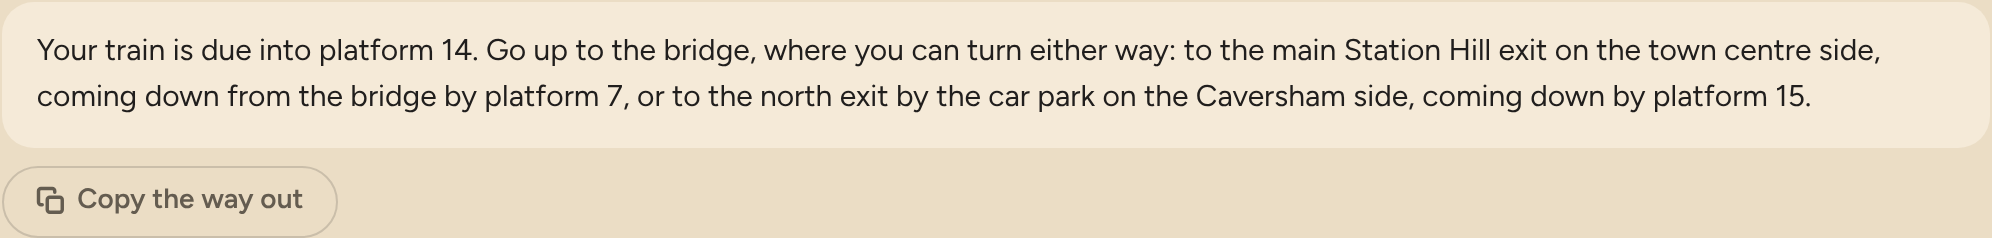
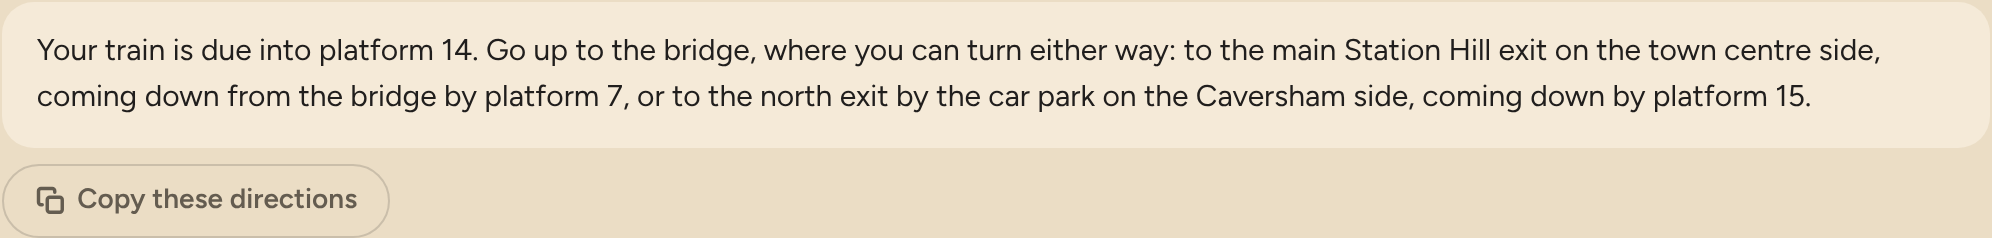
Exits folded under "Check directions from your train"; Share these directions; paragraphs kept apart in the picture
Claude-Session: https://claude.ai/code/session_01BsvHLFfPFr7TbPzqXab8yu

Changed region(s): [[0.0934, 0.7941, 0.1867, 0.8824], [0.0, 0.6765, 0.1867, 0.7059], [0.1556, 0.9706, 0.1867, 1.0]]

diff --git a/src/components/Exits.tsx b/src/components/Exits.tsx
@@ -9,6 +9,7 @@ import { fetchArrPlatform } from '../lib/load.ts'
 import { t12 } from '../lib/sentences.ts'
 import { rowEnd, useGridCols } from '../lib/useGridCols.ts'
 import { BoxShare } from './BoxShare.tsx'
+import { Icon } from './Icon.tsx'
 
 type Got = { s: 'idle' } | { s: 'ok'; platform: string | null } | { s: 'failed' }
 
@@ -53,10 +54,10 @@ export function Exits({ a }: { a: Analysis }) {
       {got.s === 'idle' && e.k !== 'concourse' && <p className="muted" role="status"><span className="spinner" aria-hidden="true"></span>Asking National Rail which platform it’s coming into…</p>}
       {got.s === 'failed' && <p role="alert">Sorry, National Rail’s live arrivals couldn’t be reached just now. Please try again in a minute.</p>}
       {answer && <p className="exit-answer" aria-live="polite">{answer}</p>}
-      {/* MOCK-UP (November 25th 2026): Share just below the answer; the words are Claude's drafts. */}
+      {/* Share just below the answer (John, November 25th 2026: "Share these directions", the rest of the wording agreed). */}
       {answer && pick && <BoxShare taken={a.taken} w={{
         kicker: 'EXITS', heading: `Arriving at ${a.to} on the ${t12(pick.s.std)} from ${a.from}`, text: answer,
-        sent: `Here’s the way out at ${a.to} from the ${t12(pick.s.std)} ${a.from} train, from Trainchecker.`, what: 'the way out',
+        sent: `Here’s the way out at ${a.to} from the ${t12(pick.s.std)} ${a.from} train, from Trainchecker.`, what: 'these directions',
         file: `trainchecker-exits-${a.fromCrs}-${a.toCrs}.png`, hash: `#${a.fromCrs}-${a.toCrs}`,
       }} />}
     </div>
@@ -67,7 +68,10 @@ export function Exits({ a }: { a: Analysis }) {
     <section className="card sec block exits">
       <h3>{heading(a.to, e)}</h3>
       <p>{stationLine(a.to, e)}</p>
+      {/* The trains folded away, as Arrivals and Connections are (John, November 25th 2026). */}
       {mines.length > 0 && e.k !== 'concourse' && (
+        <details className="advice exits-fold">
+        <summary>Check directions from your train <Icon name="down" /></summary>
         <div className="cstep">
           <p className="cq">{whichTrain(a.now, mines.map(({ s }) => s))}</p>
           <div className="cmines" ref={grid} role="group" aria-label={`Trains from ${a.from}`}>
@@ -83,6 +87,7 @@ export function Exits({ a }: { a: Analysis }) {
             ))}
           </div>
         </div>
+        </details>
       )}
     </section>
   )

diff --git a/src/lib/share.ts b/src/lib/share.ts
@@ -453,18 +453,25 @@ function hoursImage(p: ListPicture): HTMLCanvasElement {
 /** "Connections": a picture of the answer's box, in the dark colours as the lists are (John,
  *  November 21st 2026), its edge in the answer's colour. */
 const EDGE: Record<string, string> = { good: '#aebf92', mixed: '#dd8a56', prepared: '#f08a7e', none: '#b0a593' }
-export function answerImage(o: { heading: string; text: string; edge: string; when: string; kicker?: string }): HTMLCanvasElement {
+/** `paras`: the box's paragraphs, kept apart as on the page (the location guide's entrances: John,
+ *  November 25th 2026); otherwise `text` as one. */
+export function answerImage(o: { heading: string; text: string; edge: string; when: string; kicker?: string; paras?: string[] }): HTMLCanvasElement {
   const scale = 2
   const canvas = document.createElement('canvas')
   const probe = canvas.getContext('2d')!
   const textX = 110, textW = W - textX - 100
   const size = o.text.length > 520 ? 30 : 34, lh = Math.round(size * 1.45)
   probe.font = `${size}px ${FIG}`
-  const lines = wrap(probe, o.text, textW)
+  // Each paragraph's lines, then a blank half line between paragraphs ('' marks the gap).
+  const lines = (o.paras ?? [o.text]).flatMap((p, k) => [...(k ? [''] : []), ...wrap(probe, p, textW)])
+  const gapH = Math.round(lh * 0.5)
+  const ys: number[] = []
+  let yy = 0
+  for (const l of lines) { ys.push(yy); yy += l === '' ? gapH : lh }
   probe.font = `44px ${CAP}`
   const head = wrap(probe, o.heading, W - 120)
   const headTop = 110, bandTop = headTop + head.length * 54 + 24, pad = 50
-  const bandH = pad + lines.length * lh + pad - 10
+  const bandH = pad + yy + pad - 10
   const H = bandTop + bandH + 110
   canvas.width = W * scale
   canvas.height = H * scale
@@ -495,7 +502,7 @@ export function answerImage(o: { heading: string; text: string; edge: string; wh
   ctx.restore()
   ctx.fillStyle = D.text
   ctx.font = `${size}px ${FIG}`
-  lines.forEach((l, i) => ctx.fillText(l, textX, y0 + pad + size - 6 + i * lh))
+  lines.forEach((l, i) => l && ctx.fillText(l, textX, y0 + pad + size - 6 + ys[i]))
   ctx.strokeStyle = D.rule
   ctx.lineWidth = 1
   ctx.beginPath(); ctx.moveTo(60, y1 + 44); ctx.lineTo(W - 60, y1 + 44); ctx.stroke()

diff --git a/src/components/BoxShare.tsx b/src/components/BoxShare.tsx
@@ -1,7 +1,7 @@
-// MOCK-UP (November 25th 2026, for John): Share under a box of words, the platform location guide
-// (tap a platform) and Exits once a train is chosen. The picture is the Connections answer's
-// (share.ts answerImage): the box's words in the dark colours, under a heading. The button's words,
-// the picture's heading and the words sent with it are Claude's drafts.
+// Share under a box of words (John, November 25th 2026): the platform location guide (tap a
+// platform) and Exits once a train is chosen. The picture is the Connections answer's (share.ts
+// answerImage): the box's words in the dark colours, under a heading, its paragraphs kept apart.
+// Wording agreed by John: "Share these directions" for both; the headings and words sent as drafted.
 import { useState } from 'react'
 import { clock } from '../lib/analyse.ts'
 import { dayName, t12 } from '../lib/sentences.ts'
@@ -12,6 +12,7 @@ export type BoxWords = {
   kicker: string // "PLATFORM GUIDE"
   heading: string // the picture's heading
   text: string // the box's words, as on the page
+  paras?: string[] // its paragraphs, kept apart in the picture
   sent: string // the sentence sent with the picture
   what: string // the button: "Share these directions" / "Copy these directions"
   file: string
@@ -23,7 +24,7 @@ export function BoxShare({ w, taken }: { w: BoxWords; taken: string }) {
   const touch = isTouch()
   const share = async () => {
     setSaid('')
-    const canvas = answerImage({ kicker: w.kicker, heading: w.heading, text: w.text, edge: 'none', when: `${dayName(new Date(taken))}, ${t12(clock(taken))}` })
+    const canvas = answerImage({ kicker: w.kicker, heading: w.heading, text: w.text, paras: w.paras, edge: 'none', when: `${dayName(new Date(taken))}, ${t12(clock(taken))}` })
     const r = await deliverImage(canvas, w.file, { title: `Trainchecker: ${w.heading}`, text: w.sent, url: `${location.origin}/${w.hash}` })
     setSaid(r === 'copied' ? 'Copied' : r === 'saved' ? 'Saved as a picture' : '')
   }

diff --git a/src/components/JourneyView.tsx b/src/components/JourneyView.tsx
@@ -100,12 +100,12 @@ type At = { station: string; hash: string; taken: string }
 function DirLines({ lines, pl, at }: { lines: string[]; pl?: string; at?: At }) {
   const box = <div className="pdirs" aria-live="polite">{lines.map((l, i) => <p key={i}>{l}</p>)}</div>
   if (!at || !pl) return box
-  // MOCK-UP: Share just below the box, on a line of its own; the words are Claude's drafts.
+  // Share just below the box, on a line of its own (John, November 25th 2026).
   return (
     <div className="pdirs-block">
       {box}
       <BoxShare taken={at.taken} w={{
-        kicker: 'PLATFORM GUIDE', heading: `Getting to platform ${pl} at ${at.station}`, text: lines.join(' '),
+        kicker: 'PLATFORM GUIDE', heading: `Getting to platform ${pl} at ${at.station}`, text: lines.join(' '), paras: lines,
         sent: `Here’s how to find platform ${pl} at ${at.station}, from Trainchecker.`, what: 'these directions',
         file: `trainchecker-platform-${pl}-${at.hash.slice(1)}.png`, hash: at.hash,
       }} />

diff --git a/CLAUDE.md b/CLAUDE.md
@@ -74,7 +74,7 @@ given its own branch). Before committing there, run
 
 ## Log
 
-### November 25th 2026: Share under the location guide and Exits, a mock-up (branch `claude/clever-wozniak-j7ic52`, not merged; Claude Code)
+### November 25th 2026: Share under the location guide and Exits (branch `claude/clever-wozniak-j7ic52`, not merged; Claude Code)
 
 - **John:** a Share under the departures' directions (a tapped platform) and under Exits' answer, on a line
   below the box, reproducing the box; the words to think about.
@@ -89,6 +89,13 @@ given its own branch). Before committing there, run
   (6.24pm, November 17th), Exits on live arrivals from Twyford (departure side made up, illustration only);
   1200px light and 390px dark with touch; both pictures read back from the clipboard; buttons 44px on a
   phone; no errors, no sideways scroll. `tsc -b`, lint, build, checks. Not checked: a phone's share sheet.
+- **John:** "Share these directions" under Exits too; the picture keeps the paragraphs apart as on the screen
+  (`answerImage()` takes `paras`, half a line between them); the rest of the wording agreed. And Exits' trains
+  folded away: the station's sentence stays, then "Check directions from your train" with the arrow
+  (`details.exits-fold`, as Arrivals and Connections). Checked: the fold starts closed (summary 44px on a
+  phone), the answer still lands under the tapped train or row (columns measured once opened), both pictures
+  copied and read back (the guide's in two paragraphs), 1200px light and 390px dark; no errors, no sideways
+  scroll; checks, `tsc -b`, lint, build.
 
 ### November 25th 2026: Putney's one entrance; entrances named after their own platform (branch `claude/clever-wozniak-j7ic52`, not merged; Claude Code)
 
